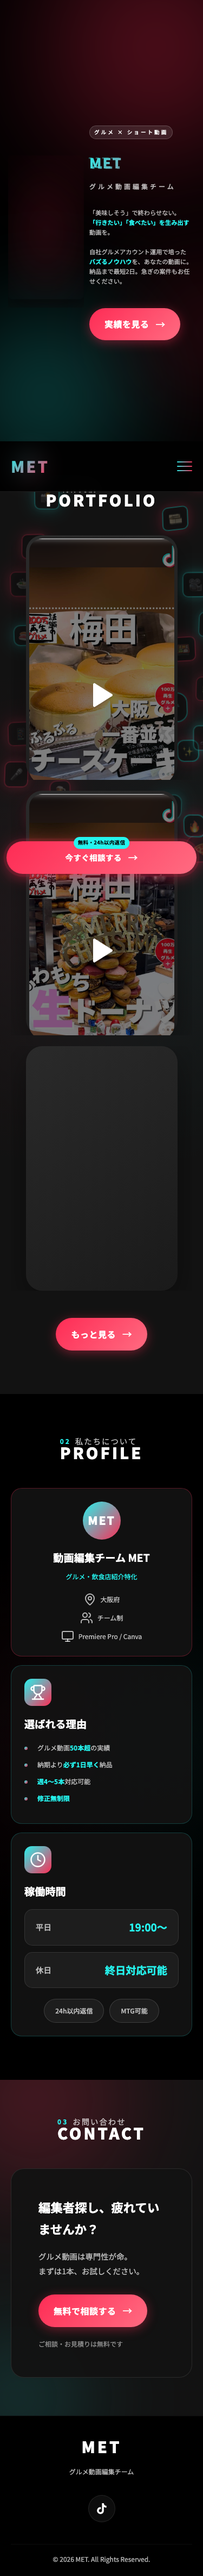
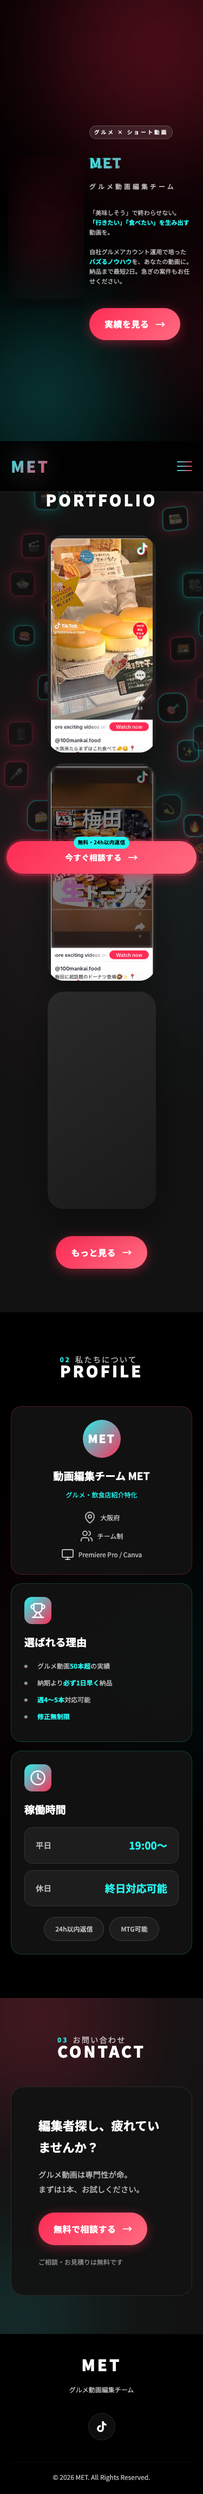
fix: ポートフォリオ動画をスケールダウンして枠内に収める
- tiktok-wrapper-small: scale(0.58)で縮小
- phone-frame-small: 200x400pxでoverflow: hidden
- position: absoluteでTikTok埋め込みを配置

Changed region(s): [[0.0, 0.0312, 1.0, 0.405], [0.0, 0.4985, 0.88, 0.9969], [0.7333, 0.8412, 0.7627, 0.8723]]

diff --git a/scripts/check-live.js b/scripts/check-live.js
@@ -1,0 +1,95 @@
+const { chromium } = require('playwright');
+
+(async () => {
+  const browser = await chromium.launch();
+  const page = await browser.newPage();
+
+  // モバイルサイズに設定
+  await page.setViewportSize({ width: 375, height: 812 });
+
+  // ライブサイトを開く
+  await page.goto('https://chatgptpjt.github.io/video-work-hub/?v=' + Date.now(), { waitUntil: 'domcontentloaded', timeout: 60000 });
+
+  // 少し待つ
+  await page.waitForTimeout(3000);
+
+  // ヒーローセクションのスクリーンショット
+  await page.screenshot({ path: '/Users/r/projects/video-work-hub/scripts/live-hero.png' });
+  console.log('=== Hero screenshot saved ===');
+
+  // ポートフォリオセクションまでスクロール
+  await page.evaluate(() => {
+    const portfolio = document.querySelector('#works');
+    if (portfolio) {
+      portfolio.scrollIntoView();
+    }
+  });
+
+  await page.waitForTimeout(2000);
+
+  // ポートフォリオセクションのスクリーンショット
+  await page.screenshot({ path: '/Users/r/projects/video-work-hub/scripts/live-portfolio.png' });
+  console.log('=== Portfolio screenshot saved ===');
+
+  // CSSが正しく読み込まれているか確認
+  const heroVideo = await page.evaluate(() => {
+    const el = document.querySelector('.hero-video');
+    if (!el) return { error: 'hero-video not found' };
+    const styles = window.getComputedStyle(el);
+    return {
+      width: styles.width,
+      height: styles.height,
+      position: styles.position,
+      overflow: styles.overflow
+    };
+  });
+  console.log('\n=== .hero-video (LIVE) ===');
+  console.log(JSON.stringify(heroVideo, null, 2));
+
+  const tiktokWrapper = await page.evaluate(() => {
+    const el = document.querySelector('.tiktok-wrapper');
+    if (!el) return { error: 'tiktok-wrapper not found' };
+    const styles = window.getComputedStyle(el);
+    return {
+      width: styles.width,
+      maxWidth: styles.maxWidth,
+      transform: styles.transform,
+      position: styles.position
+    };
+  });
+  console.log('\n=== .tiktok-wrapper (LIVE) ===');
+  console.log(JSON.stringify(tiktokWrapper, null, 2));
+
+  const portfolioItem = await page.evaluate(() => {
+    const el = document.querySelector('.portfolio-video-item');
+    if (!el) return { error: 'portfolio-video-item not found' };
+    const styles = window.getComputedStyle(el);
+    return {
+      width: styles.width,
+      height: styles.height,
+      display: styles.display,
+      overflow: styles.overflow
+    };
+  });
+  console.log('\n=== .portfolio-video-item (LIVE) ===');
+  console.log(JSON.stringify(portfolioItem, null, 2));
+
+  const phoneFrameSmall = await page.evaluate(() => {
+    const el = document.querySelector('.phone-frame-small');
+    if (!el) return { error: 'phone-frame-small not found' };
+    const styles = window.getComputedStyle(el);
+    const rect = el.getBoundingClientRect();
+    return {
+      width: styles.width,
+      height: styles.height,
+      position: styles.position,
+      transform: styles.transform,
+      rectWidth: rect.width,
+      rectHeight: rect.height
+    };
+  });
+  console.log('\n=== .phone-frame-small (LIVE) ===');
+  console.log(JSON.stringify(phoneFrameSmall, null, 2));
+
+  await browser.close();
+})();

diff --git a/scripts/check-resize.js b/scripts/check-resize.js
@@ -1,0 +1,81 @@
+const { chromium } = require('playwright');
+
+(async () => {
+  const browser = await chromium.launch();
+  const page = await browser.newPage();
+
+  // デスクトップサイズで開始
+  await page.setViewportSize({ width: 1200, height: 800 });
+  await page.goto('file:///Users/r/projects/video-work-hub/index.html');
+  await page.waitForTimeout(2000);
+
+  // ポートフォリオまでスクロール
+  await page.evaluate(() => {
+    document.querySelector('#works').scrollIntoView();
+  });
+  await page.waitForTimeout(1000);
+
+  console.log('=== Before resize (1200px) ===');
+  await page.screenshot({ path: '/Users/r/projects/video-work-hub/scripts/before-resize.png' });
+
+  // デスクトップでのサイズ確認
+  let data = await page.evaluate(() => {
+    const items = document.querySelectorAll('.portfolio-video-item');
+    return Array.from(items).map((el, i) => ({
+      index: i,
+      width: el.offsetWidth,
+      height: el.offsetHeight,
+      display: window.getComputedStyle(el).display
+    }));
+  });
+  console.log('portfolio-video-items:', JSON.stringify(data, null, 2));
+
+  // モバイルサイズにリサイズ
+  console.log('\n=== Resizing to 375px... ===');
+  await page.setViewportSize({ width: 375, height: 812 });
+  await page.waitForTimeout(2000);
+
+  // ポートフォリオまでスクロール
+  await page.evaluate(() => {
+    document.querySelector('#works').scrollIntoView();
+  });
+  await page.waitForTimeout(1000);
+
+  console.log('=== After resize (375px) ===');
+  await page.screenshot({ path: '/Users/r/projects/video-work-hub/scripts/after-resize.png' });
+
+  // モバイルでのサイズ確認
+  data = await page.evaluate(() => {
+    const items = document.querySelectorAll('.portfolio-video-item');
+    return Array.from(items).map((el, i) => {
+      const rect = el.getBoundingClientRect();
+      return {
+        index: i,
+        width: el.offsetWidth,
+        height: el.offsetHeight,
+        display: window.getComputedStyle(el).display,
+        rectWidth: rect.width,
+        rectHeight: rect.height,
+        isVisible: rect.width > 0 && rect.height > 0
+      };
+    });
+  });
+  console.log('portfolio-video-items:', JSON.stringify(data, null, 2));
+
+  // phone-frame-smallの確認
+  const frames = await page.evaluate(() => {
+    const items = document.querySelectorAll('.phone-frame-small');
+    return Array.from(items).map((el, i) => {
+      const rect = el.getBoundingClientRect();
+      return {
+        index: i,
+        width: el.offsetWidth,
+        rectWidth: rect.width,
+        isVisible: rect.width > 0
+      };
+    });
+  });
+  console.log('phone-frame-small:', JSON.stringify(frames, null, 2));
+
+  await browser.close();
+})();

diff --git a/scripts/check-breakpoints.js b/scripts/check-breakpoints.js
@@ -1,0 +1,59 @@
+const { chromium } = require('playwright');
+
+(async () => {
+  const browser = await chromium.launch();
+  const page = await browser.newPage();
+
+  const widths = [1200, 1024, 900, 768, 600, 480, 375];
+
+  for (const width of widths) {
+    await page.setViewportSize({ width, height: 800 });
+    await page.goto('file:///Users/r/projects/video-work-hub/index.html');
+    await page.waitForTimeout(1000);
+
+    // ポートフォリオセクションまでスクロール
+    await page.evaluate(() => {
+      const portfolio = document.querySelector('#works');
+      if (portfolio) portfolio.scrollIntoView();
+    });
+    await page.waitForTimeout(500);
+
+    const data = await page.evaluate(() => {
+      const item = document.querySelector('.portfolio-video-item');
+      const frame = document.querySelector('.phone-frame-small');
+      const wrapper = document.querySelector('.tiktok-wrapper-small');
+
+      const getStyles = (el) => {
+        if (!el) return null;
+        const styles = window.getComputedStyle(el);
+        const rect = el.getBoundingClientRect();
+        return {
+          width: styles.width,
+          height: styles.height,
+          display: styles.display,
+          position: styles.position,
+          visibility: styles.visibility,
+          opacity: styles.opacity,
+          rectWidth: rect.width,
+          rectHeight: rect.height
+        };
+      };
+
+      return {
+        portfolioItem: getStyles(item),
+        phoneFrame: getStyles(frame),
+        tiktokWrapper: getStyles(wrapper)
+      };
+    });
+
+    console.log(`\n=== Width: ${width}px ===`);
+    console.log('portfolio-video-item:', JSON.stringify(data.portfolioItem, null, 2));
+    console.log('phone-frame-small:', JSON.stringify(data.phoneFrame, null, 2));
+
+    // スクリーンショット
+    await page.screenshot({ path: `/Users/r/projects/video-work-hub/scripts/width-${width}.png` });
+  }
+
+  await browser.close();
+  console.log('\n=== Done ===');
+})();

diff --git a/style.css b/style.css
@@ -1879,20 +1879,27 @@ body {
 
     .portfolio-video-item {
         width: 100%;
-        height: 450px;
-        overflow: hidden;
         display: flex;
         justify-content: center;
     }
 
     .phone-frame-small {
-        width: 280px;
+        width: 200px;
+        height: 400px;
         padding: 6px;
-        flex-shrink: 0;
+        overflow: hidden;
+        position: relative;
     }
 
     .tiktok-wrapper-small {
-        max-height: 450px;
+        position: absolute;
+        top: 6px;
+        left: 6px;
+        transform: scale(0.58);
+        transform-origin: top left;
+        width: 325px;
+        max-width: none;
+        max-height: none;
     }
 
     .work-card {
